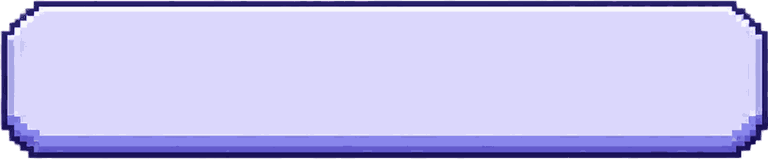
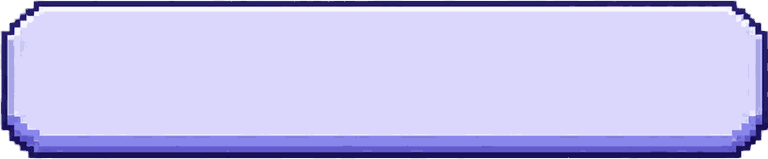
팀 에셋의 크림·라벤더 패널을 카드에 적용
- PixelCard에 tone(cream/lavender)을 추가하고 패널 그림을 border-image 9분할로 적용
- 라벤더 패널 양옆 얼룩 제거, 이미지 안쪽 반투명 보정(버튼·말풍선 포함)
- 앱용으로 줄인 패널 이미지 추가(크림 10KB, 라벤더 7KB)

Changed region(s): [[0.0312, 0.9811, 0.9688, 1.0], [0.0312, 0.0, 0.9688, 0.0252]]

diff --git a/src/components/PixelCard.tsx b/src/components/PixelCard.tsx
@@ -1,20 +1,30 @@
 import type { CSSProperties, ReactNode } from 'react'
 
+type Tone = 'cream' | 'lavender'
+
+// 에셋 카탈로그의 크림 패널(결과·안내·미션)과 라벤더 패널(선택지·입력·체크리스트)
+const TONE: Record<Tone, string> = {
+  cream: 'pix-skin-panel-cream',
+  lavender: 'pix-skin-panel-lavender',
+}
+
 interface Props {
   /** 카드 위에 붙는 퀘스트 라벨 */
   tag?: string
+  /** cream: 결과·안내 카드, lavender: 고르거나 입력하는 카드 */
+  tone?: Tone
   children: ReactNode
   className?: string
   /** 등장 애니메이션 지연 같은 동적 값 전달용 */
   style?: CSSProperties
 }
 
-/** 퀘스트 카드: 두꺼운 테두리 + 단단한 그림자 + 위쪽 라벨 탭 */
-export function PixelCard({ tag, children, className = '', style }: Props) {
+/** 퀘스트 카드: 팀 에셋의 패널 그림 + 위쪽 라벨 탭 */
+export function PixelCard({ tag, tone = 'cream', children, className = '', style }: Props) {
   return (
-    <section style={style} className={`relative border-4 border-pix-ink bg-pix-paper p-4 shadow-pix ${className}`}>
+    <section style={style} className={`relative px-1 py-1.5 ${TONE[tone]} ${className}`}>
       {tag && (
-        <span className="absolute -top-4 left-3 border-4 border-pix-ink bg-pix-ink px-2 font-pix-display text-pix-caption font-bold text-pix-sun">
+        <span className="absolute -top-8 left-0 border-4 border-pix-ink bg-pix-ink px-2 font-pix-display text-pix-caption font-bold text-pix-sun">
           {tag}
         </span>
       )}

diff --git a/src/index.css b/src/index.css
@@ -46,6 +46,20 @@
   border-image: url("./assets/ui/speech-bubble.png") 76 75 116 180 fill / 2.375rem 2.34375rem 3.625rem 5.625rem stretch;
 }
 
+/*
+ * 패널(카드) 그림. 테두리 장식이 두꺼워서 화면 20px(그림 40px)이 되도록 줄였다.
+ * 글자가 장식 테두리와 겹치지 않도록 border-width도 같은 20px로 잡아 내용이 테두리 안쪽에서 시작한다.
+ */
+@utility pix-skin-panel-cream {
+  border: 1.25rem solid transparent;
+  border-image: url("./assets/ui/panel-cream.png") 40 fill / 1.25rem stretch;
+}
+
+@utility pix-skin-panel-lavender {
+  border: 1.25rem solid transparent;
+  border-image: url("./assets/ui/panel-lavender.png") 40 fill / 1.25rem stretch;
+}
+
 @layer base {
   html {
     background-color: var(--color-pix-night);

diff --git a/src/screens/GuideScreen.tsx b/src/screens/GuideScreen.tsx
@@ -97,7 +97,7 @@ export function GuideScreen({ context, onReady, onBack }: Props) {
         <p className="mt-2">{context ? verdictCopy(context.verdict, context.day).guide : GENERAL_GUIDE}</p>
       </PixelCard>
 
-      <PixelCard tag={`출발 전 체크리스트 ${checked.size}/${CHECKLIST.length}`}>
+      <PixelCard tone="lavender" tag={`출발 전 체크리스트 ${checked.size}/${CHECKLIST.length}`}>
         <ul className="mt-2 flex flex-col gap-3">
           {CHECKLIST.map((item) => (
             <li key={item.id}>

diff --git a/src/screens/SunsetErrorScreen.tsx b/src/screens/SunsetErrorScreen.tsx
@@ -39,7 +39,7 @@ export function SunsetErrorScreen({ mountainName, dayLabel, onRetry, onManual, o
         <Penguin mood="worried" size="md" />
       </div>
 
-      <PixelCard tag="일몰 시각 직접 입력">
+      <PixelCard tone="lavender" tag="일몰 시각 직접 입력">
         <form onSubmit={submit} className="mt-2 flex flex-col gap-3">
           <label className="flex flex-col gap-2">
             <span>{dayLabel} {mountainName}의 일몰 시각 (날씨 앱에서 확인할 수 있어요)</span>

diff --git a/src/screens/ResultScreen.tsx b/src/screens/ResultScreen.tsx
@@ -176,7 +176,7 @@ export function ResultScreen({
           style={reveal(1)}
         />
 
-        <PixelCard tag={`${mountain.name} · 코스 바꾸기`} className="animate-pix-rise" style={reveal(2)}>
+        <PixelCard tone="lavender" tag={`${mountain.name} · 코스 바꾸기`} className="animate-pix-rise" style={reveal(2)}>
           <fieldset className="mt-2">
             <legend className="sr-only">코스 다시 선택</legend>
             <div className="grid grid-cols-3 gap-2">
